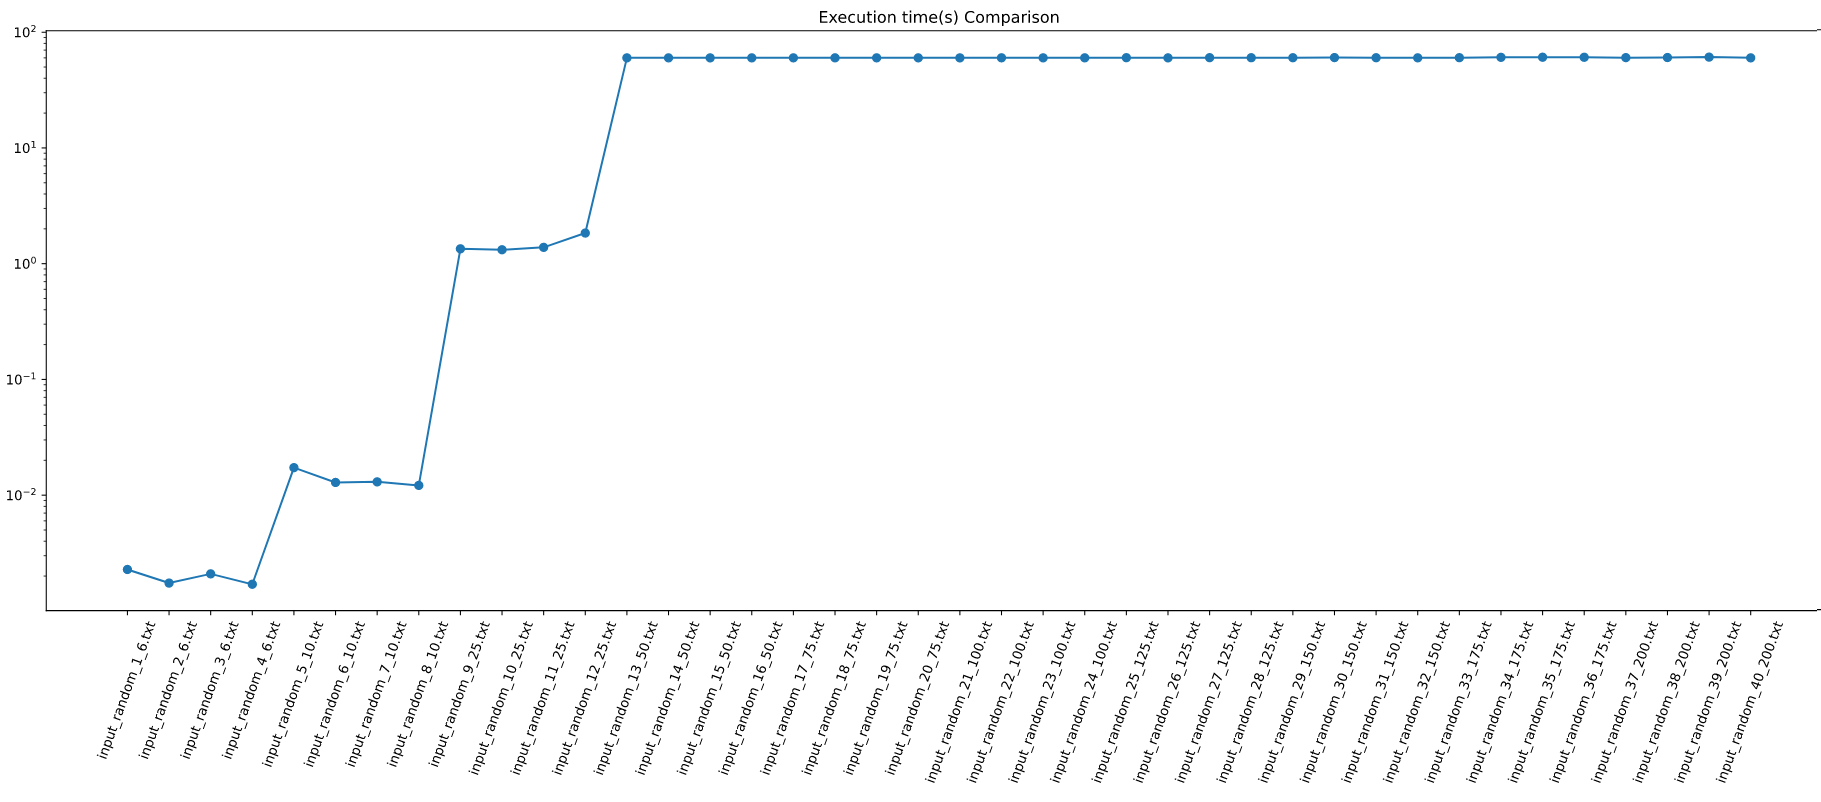
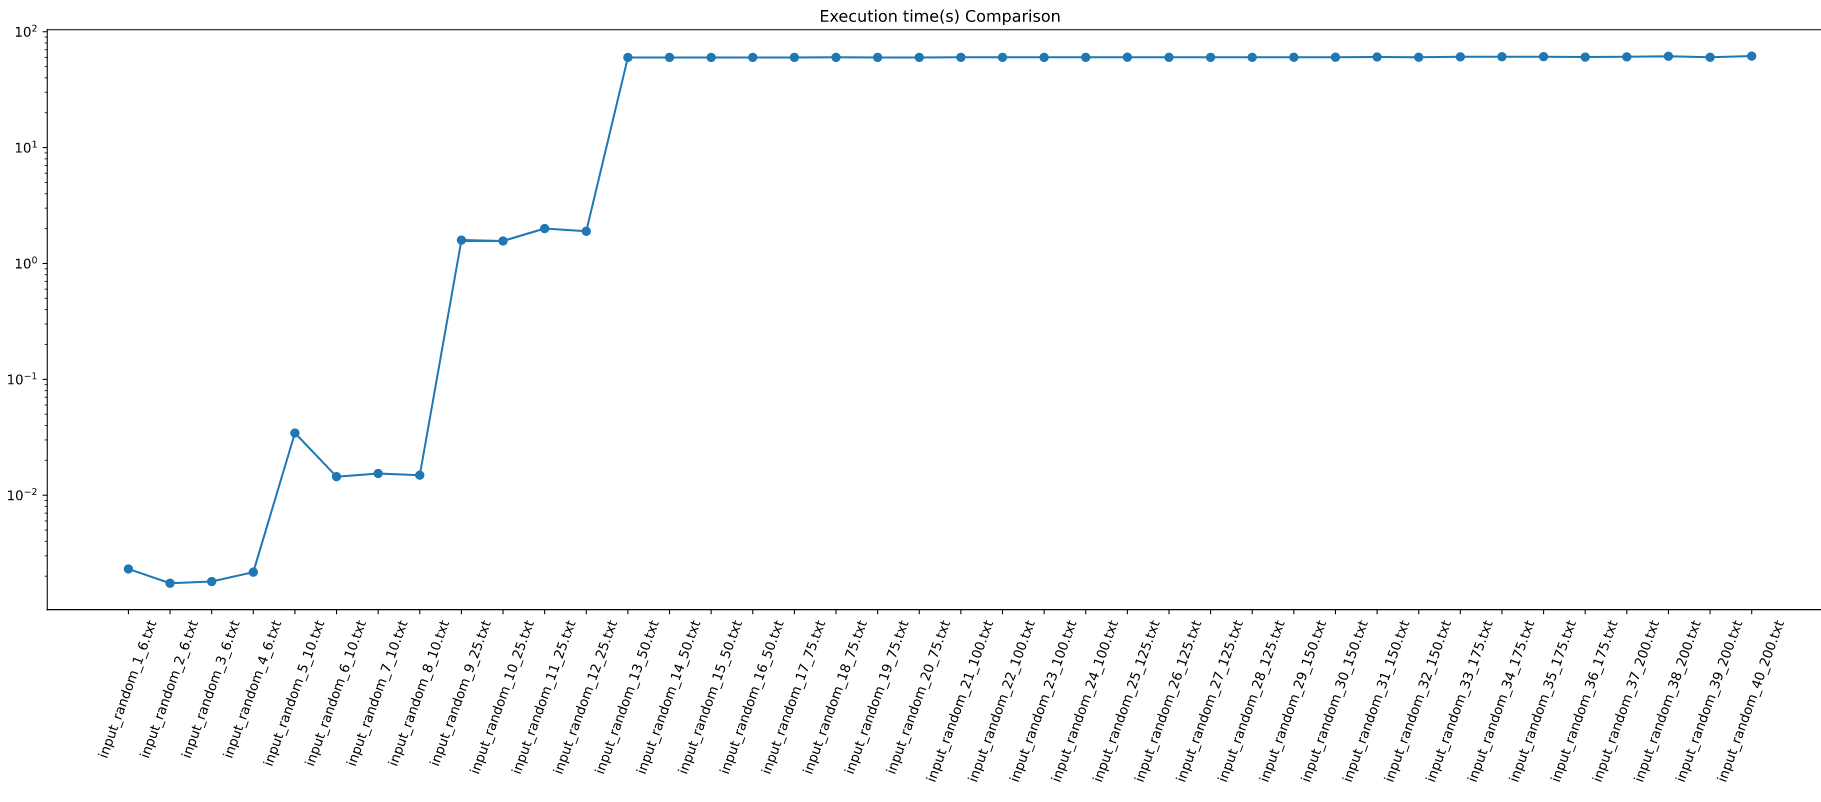
relazione completata

diff --git a/Homework3/Relazione_HW3/Res/Sezioni/karger.tex b/Homework3/Relazione_HW3/Res/Sezioni/karger.tex
@@ -16,24 +16,24 @@ FULL_CONTRACTION(G):
 		pick a random edge e = (u, v)
 		merge u and v in a single node
 		remove edges between u and v
+		edit adjacency lists to point to the new node
 		
-	return |E| // the edges between the two remaining vertices (u* ,v*)
+	return |E| // the total number of edges remaining
 \end{lstlisting}	
 
 L'algoritmo di \textit{Karger} è un algoritmo randomizzato per la computazione del \textit{minimum cut} di un multi-grafo connesso.\\
 Un ``\textit{multi-grafo}'' è un particolare tipo di grafo che ammette ripetizioni di lati al suo interno, ovvero questi possono apparire più di una volta (con \textit{molteplicità} $\geq$ 1).\\
 L'idea su cui si basa l'algoritmo qui implementato, è quella di contrarre i vertici all'interno del multi-grafo fino a quando non ne restano solamente due, i quali rappresentano gli opposti del taglio.\\
-Per ``\textit{contrarre}'' si intende \textit{unire} i due nodi estremi di un lato in maniera da averne solamente uno. 
+Per ``\textit{contrarre}'' si intende \textit{unire} i due nodi estremi di un lato in maniera da averne solamente uno preservando il taglio minimo. 
 Dopo averli uniti vanno aggiustate le vecchie liste di adiacenza, unite in una singola, in maniera che i vecchi puntatori ai nodi tolti siano stati correttamente sostituiti con riferimenti al nuovo nodo e che non ci siano \textit{self-loops}.\\
-Essendo che è un \textit{algoritmo randomizzato}, ovvero utilizza un grado di casualità come parte della sua logica, la procedura di contrazione va eseguito $k$ volte, con $k$ calcolato in maniera da soddisfare la probabilità:
+Essendo un \textit{algoritmo randomizzato}, ovvero utilizza un grado di casualità come parte della sua logica, la procedura di contrazione va eseguita $k$ volte, con $k$ calcolato in maniera da soddisfare la probabilità:
 \begin{center}
-	$Pr("le~k~FULL\_C.~non~accumulano~la~taglia~del~min~cut") \leq (1-\frac{2}{n^2})^k$
-
+	$Pr(``le~k~FULL\_C.~non~accumulano~la~taglia~del~min~cut") \leq (1-\frac{2}{n^2})^k$
 \end{center}
 Voglio ottenere qualcosa del tipo $\frac{1}{n^d}$ e quindi scelgo $k = d\frac{n^2}{2}\ln n$.\\
 La logica che implementa la parte randomica in questo caso è la scelta del lato i cui nodi andranno contratti.\\
-Possiamo quindi dire che l'algoritmo funziona con probabilità bassissima, che può però essere amplificata ripetendo questo processo molte volte, esattamente k.\\
-Essendo però che questo potrebbe portare via tanto tempo da eseguire su tutte le istanze del dataset abbiamo introdotto un tempo massimo di 60 secondi per ciascuna istanza.
+Possiamo quindi dire che l'algoritmo funziona con probabilità bassissima, che può però essere amplificata ripetendo questo processo molte volte, esattamente $k$.\\
+Data l'alta complessità computazionale, abbiamo deciso di introdurre un tempo massimo di 60 secondi in modo da eseguire l'algoritmo su ciascuna istanza del dataset.
 
 \subsection{Strutture dati}
 
@@ -43,8 +43,8 @@ Essendo però che questo potrebbe portare via tanto tempo da eseguire su tutte l
 		\item \texttt{\textbf{n\_edges}}: numero di lati del grafo;
 		\item \texttt{\textbf{nodes}}: dizionario con i nodi del grafo e le rispettive liste di adiacenza;
 		\item \texttt{\textbf{edges}}: lista con i lati del grafo;
-		\item \texttt{\textbf{\_\_init\_\_()}}: metodo di inizializzazione che imposta i precedenti campi a 0 o vuoti;
-		\item \texttt{\textbf{addEdge(v1, v2)}}: metodo che dati due nodi aggiunge il lato che li unisce alla lista \texttt{edges};
+		\item \texttt{\textbf{\_\_init\_\_()}}: costruttore del grafo che imposta i precedenti campi a 0 o vuoti;
+		\item \texttt{\textbf{addEdge(v1, v2)}}: metodo che dati due nodi aggiunge il lato che li unisce alla lista \texttt{edges} aggiornando le liste di adiacenza;
 		\item \texttt{\textbf{buildGraph(data)}} metodo che riceve in input una matrice di adiacenza e, in base a questa, ne costruisce un grafo.
 	\end{itemize}
 	
@@ -64,9 +64,9 @@ Essendo però che questo potrebbe portare via tanto tempo da eseguire su tutte l
 		\item a partire dalla lista di vertici nel file di input, viene costruito il grafo \texttt{graph};
 		\item viene calcolato il valore \texttt{k} tramite la formula \texttt{int((graph.n\_nodes**2 / 2) * \\
 			math.log(graph.n\_nodes))}. Se \texttt{k} supera $10000$ allora il suo valore lo fissiamo a tale soglia;
-		\item per migliorare le performance della soluzione proposta, abbiamo deciso di creare in anticipo le copie dei grafi per ciascuna delle \texttt{k} volte che verrà eseguito \texttt{fullContraction(G)};
+		\item per migliorare le performance della soluzione proposta, abbiamo deciso di creare in anticipo le copie dei grafi per ciascuna delle \texttt{k} volte che verrà eseguito \texttt{fullContraction(G)}. La limitazione del valore di $k$ a 10000 è dovuta all'elevato costo della creazione delle $k$ copie di \texttt{graph};
 		\item viene effettuata la chiamata a \texttt{Karger(G,k)}, nel quale per \texttt{k} volte viene chiamato \texttt{fullContraction(G)}. I risultati di ciascuna chiamata vengono confrontati e viene salvato quello minimo, inoltre vengono registrati i tempi che sono presentati in formato tabellare nella Sez.~\ref{risultati}. Se il tempo di esecuzione supera quello massimo fissato, allora viene tornata la soluzione trovata fino a quel momento;
-		\item per ciascuna chiamata a \texttt{fullContraction(G)}, questo metodo sceglie in maniera randomica un lato presente all'interno del grafo passato in input e unisce i vertici che ne rappresentano gli estremi in un singolo vertice. Per ciascuno degli altri vertici presenti all'interno del grafo si modificano le liste di adiacenza e aggiornando i riferimenti. Vengono inoltre diminuiti i contatori \texttt{n\_nodes} e \texttt{n\_edges} all'interno della struttura \texttt{Graph}. Questo metodo ritorna il numero rimanente di lati all'interno del grafo dopo aver eliminato $|V|-2$ nodi;
+		\item per ciascuna chiamata a \texttt{fullContraction(G)}, questo metodo sceglie in maniera randomica un lato presente all'interno del grafo passato in input e unisce i vertici che ne rappresentano gli estremi in un singolo vertice. Per ciascuno degli altri vertici presenti all'interno del grafo si modificano le liste di adiacenza e aggiornano i riferimenti. Vengono inoltre diminuiti i contatori \texttt{n\_nodes} e \texttt{n\_edges} all'interno della struttura \texttt{Graph}. Questo metodo ritorna il numero rimanente di lati all'interno del grafo dopo aver eliminato $|V|-2$ nodi;
 		\item i risultati vengono messi in coda alla lista e questo procedimento viene ripetuto per i rimanenti file in input non ancora valutati.
 	\end{itemize}
 
@@ -75,13 +75,18 @@ Essendo però che questo potrebbe portare via tanto tempo da eseguire su tutte l
 		\begin{figure}[H]
 			\centering
 			\includegraphics[width=\linewidth]{Img/example_1.png}
-			\caption{Esempio di esecuzione dell'algoritmo di Karger e Full Contraption}
+			\caption{Esempio di esecuzione dell'algoritmo di Karger e Full Contraction}
 		\end{figure}
 	\end{center}
 	\vspace{-1cm}
 		
 \subsection{Complessità}
 
-	La complessità della subroutine \texttt{fullContraction} è $O(n^2)$ e questo porta la complessità di \texttt{Karger}, e quindi di tutto l'algoritmo, ad essere $O(n^4\log n)$ per ciascuna istanza in analisi.
+	La complessità della subroutine \texttt{fullContraction} è $O(n^2)$ e questo porta la complessità di \texttt{Karger}, e quindi di tutto l'algoritmo, ad essere $O(n^4\log n)$ per ciascuna istanza in analisi.\\
+	In particolare:
+	\begin{itemize}
+		\item nella subroutine di \texttt{FullContraction} la complessità è dovuta dal primo ciclo \texttt{for} che ha complessità $O(n)$ e ciascuna contrazione ha complessità $O(n)$. In totale, quindi, \texttt{FullContraction} ha complessità $O(n^2)$;
+		\item la complessità di \texttt{Karger} è dovuta dalla complessità della precedente procedura \texttt{FullContraction}, ripetuta $k$ volte, con una complessità totale di $O(n^4\log n)$.
+	\end{itemize}
 	
 \pagebreak

diff --git a/Homework3/Relazione_HW3/Res/Sezioni/risultati_domande.tex b/Homework3/Relazione_HW3/Res/Sezioni/risultati_domande.tex
@@ -5,42 +5,42 @@
 	\begin{tabular}{|c|c|c|c|c|c|}
 		\hline
 		\parbox{2cm}{\centering Istanza} & {Soluzione} & {Tempo(s)} & \parbox{2.75cm}{\vspace{.1cm}\centering Tempo Full Contraction(s)\vspace{.1cm}} & \parbox{2cm}{\centering Discovery time(s)} & {Errore(\%)}\\\hline
-		input\_1\_6.txt & 2 & 0.00228 & 0.00007 & 0.00044 & 0.00\\\hline
-		input\_2\_6.txt & 1 & 0.00174 & 0.00005 & 0.00006 & 0.00\\\hline
-		input\_3\_6.txt & 3 & 0.00209 & 0.00006 & 0.00012 & 0.00\\\hline
-		input\_4\_6.txt & 4 & 0.00170 & 0.00005 & 0.00009 & 0.00\\\hline
-		input\_5\_10.txt & 4 & 0.01729 & 0.00015 & 0.00078 & 0.00\\\hline
-		input\_6\_10.txt & 3 & 0.01288 & 0.00011 & 0.00015 & 0.00\\\hline
-		input\_7\_10.txt & 2 & 0.01303 & 0.00011 & 0.00012 & 0.00\\\hline
-		input\_8\_10.txt & 1 & 0.01215 & 0.00011 & 0.00013 & 0.00\\\hline
-		input\_9\_25.txt & 7 & 1.34433 & 0.00134 & 0.01209 & 0.00\\\hline
-		input\_10\_25.txt & 6 & 1.31912 & 0.00131 & 0.02524 & 0.00\\\hline
-		input\_11\_25.txt & 8 & 1.38386 & 0.00138 & 0.00393 & 0.00\\\hline
-		input\_12\_25.txt & 9 & 1.83993 & 0.00183 & 0.01214 & 0.00\\\hline
-		input\_13\_50.txt & 15 & 60.01566 & 0.01666 & 0.31949 & 0.00\\\hline
-		input\_14\_50.txt & 16 & 60.00023 & 0.01735 & 0.01634 & 0.00\\\hline
-		input\_15\_50.txt & 14 & 60.00337 & 0.01405 & 0.01708 & 0.00\\\hline
-		input\_16\_50.txt & 10 & 60.00059 & 0.01717 & 0.01396 & 0.00\\\hline
-		input\_17\_75.txt & 19 & 60.04531 & 0.05812 & 0.28464 & 0.00\\\hline
-		input\_18\_75.txt & 15 & 60.05066 & 0.05987 & 0.22496 & 0.00\\\hline
-		input\_19\_75.txt & 18 & 60.03110 & 0.05914 & 0.16354 & 0.00\\\hline
-		input\_20\_75.txt & 16 & 60.02701 & 0.05139 & 0.09496 & 0.00\\\hline
-		input\_21\_100.txt & 22 & 60.00147 & 0.12987 & 2.53955 & 0.00\\\hline
-		input\_22\_100.txt & 23 & 60.08396 & 0.11599 & 3.10299 & 0.00\\\hline
-		input\_23\_100.txt & 19 & 60.02514 & 0.12826 & 0.12116 & 0.00\\\hline
-		input\_24\_100.txt & 24 & 60.06026 & 0.12591 & 1.32756 & 0.00\\\hline
-		input\_25\_125.txt & 34 & 60.20452 & 0.29368 & 1.40238 & 0.00\\\hline
-		input\_26\_125.txt & 29 & 60.02135 & 0.26558 & 0.75063 & 0.00\\\hline
-		input\_27\_125.txt & 36 & 60.24215 & 0.30272 & 2.94239 & 0.00\\\hline
-		input\_28\_125.txt & 31 & 60.17579 & 0.26277 & 13.44911 & 0.00\\\hline
-		input\_29\_150.txt & 37 & 60.16308 & 0.56227 & 1.76109 & 0.00\\\hline
-		input\_30\_150.txt & 35 & 60.34957 & 0.51581 & 15.62627 & 0.00\\\hline
-		input\_31\_150.txt & 41 & 60.16005 & 0.51419 & 3.07488 & 0.00\\\hline
-		input\_32\_150.txt & 39 & 60.05670 & 0.53622 & 12.24101 & 0.00\\\hline
-		input\_33\_175.txt & 42 & 60.22020 & 0.92646 & 11.07539 & 0.00\\\hline
-		input\_34\_175.txt & 45 & 60.65118 & 0.91895 & 10.16296 & 0.00\\\hline
-		input\_35\_175.txt & 53 & 60.76624 & 1.06607 & 28.81443 & 0.00\\\hline
-		input\_36\_175.txt & 43 & 60.72785 & 0.84344 & 33.94806 & 0.00\\\hline
+		input\_1\_6.txt & 2 & 0.00231 & 0.00007 & 0.00024 & 0.00\\\hline
+		input\_2\_6.txt & 1 & 0.00174 & 0.00005 & 0.00065 & 0.00\\\hline
+		input\_3\_6.txt & 3 & 0.00180 & 0.00006 & 0.00018 & 0.00\\\hline
+		input\_4\_6.txt & 4 & 0.00217 & 0.00007 & 0.00014 & 0.00\\\hline
+		input\_5\_10.txt & 4 & 0.03442 & 0.00030 & 0.00072 & 0.00\\\hline
+		input\_6\_10.txt & 3 & 0.01447 & 0.00013 & 0.00095 & 0.00\\\hline
+		input\_7\_10.txt & 2 & 0.01540 & 0.00013 & 0.00062 & 0.00\\\hline
+		input\_8\_10.txt & 1 & 0.01490 & 0.00013 & 0.00013 & 0.00\\\hline
+		input\_9\_25.txt & 7 & 1.59042 & 0.00158 & 0.00887 & 0.00\\\hline
+		input\_10\_25.txt & 6 & 1.56295 & 0.00155 & 0.04115 & 0.00\\\hline
+		input\_11\_25.txt & 8 & 2.00112 & 0.00199 & 0.00893 & 0.00\\\hline
+		input\_12\_25.txt & 9 & 1.89574 & 0.00188 & 0.00201 & 0.00\\\hline
+		input\_13\_50.txt & 15 & 60.00233 & 0.01549 & 0.10327 & 0.00\\\hline
+		input\_14\_50.txt & 16 & 60.01616 & 0.01579 & 0.13614 & 0.00\\\hline
+		input\_15\_50.txt & 14 & 60.00795 & 0.01347 & 0.04197 & 0.00\\\hline
+		input\_16\_50.txt & 10 & 60.01186 & 0.01411 & 0.02720 & 0.00\\\hline
+		input\_17\_75.txt & 19 & 60.01799 & 0.04756 & 0.12836 & 0.00\\\hline
+		input\_18\_75.txt & 15 & 60.04845 & 0.05328 & 0.15721 & 0.00\\\hline
+		input\_19\_75.txt & 18 & 60.03456 & 0.05216 & 0.40870 & 0.00\\\hline
+		input\_20\_75.txt & 16 & 60.01651 & 0.05090 & 1.61908 & 0.00\\\hline
+		input\_21\_100.txt & 22 & 60.11853 & 0.12656 & 0.74940 & 0.00\\\hline
+		input\_22\_100.txt & 23 & 60.05595 & 0.12670 & 0.87588 & 0.00\\\hline
+		input\_23\_100.txt & 19 & 60.05745 & 0.13680 & 0.56977 & 0.00\\\hline
+		input\_24\_100.txt & 24 & 60.05831 & 0.13228 & 0.61221 & 0.00\\\hline
+		input\_25\_125.txt & 34 & 60.23190 & 0.30267 & 2.83151 & 0.00\\\hline
+		input\_26\_125.txt & 29 & 60.13841 & 0.27212 & 4.71717 & 0.00\\\hline
+		input\_27\_125.txt & 36 & 60.06676 & 0.30336 & 0.91342 & 0.00\\\hline
+		input\_28\_125.txt & 31 & 60.10401 & 0.25576 & 7.58857 & 0.00\\\hline
+		input\_29\_150.txt & 37 & 60.17212 & 0.60780 & 3.03944 & 0.00\\\hline
+		input\_30\_150.txt & 35 & 60.26632 & 0.52405 & 0.59696 & 0.00\\\hline
+		input\_31\_150.txt & 41 & 60.51738 & 0.54033 & 2.94316 & 0.00\\\hline
+		input\_32\_150.txt & 39 & 60.21118 & 0.56803 & 26.88796 & 0.00\\\hline
+		input\_33\_175.txt & 42 & 60.69174 & 0.90584 & 2.62535 & 0.00\\\hline
+		input\_34\_175.txt & 45 & 60.81718 & 0.90772 & 45.62800 & 0.00\\\hline
+		input\_35\_175.txt & 53 & 60.90280 & 1.14911 & 10.99047 & 0.00\\\hline
+		input\_36\_175.txt & 43 & 60.37577 & 0.86251 & 8.02117 & 0.00\\\hline
 	\end{tabular}
 \end{center}
 
@@ -50,10 +50,10 @@
 	\begin{tabular}{|c|c|c|c|c|c|}
 		\hline
 		\parbox{2cm}{\centering Istanza} & {Soluzione} & {Tempo(s)} & \parbox{2.75cm}{\vspace{.1cm}\centering Tempo Full Contraction(s)\vspace{.1cm}} & \parbox{2cm}{\centering Discovery time(s)} & {Errore(\%)}\\\hline
-		input\_37\_200.txt & 54 & 60.28828 & 1.58653 & 28.65111 & 0.00\\\hline
-		input\_38\_200.txt & 52 & 60.42248 & 1.40517 & 2.72059 & 0.00\\\hline
-		input\_39\_200.txt & 51 & 60.90992 & 1.52275 & 50.57414 & 0.00\\\hline
-		input\_40\_200.txt & 61 & 60.02180 & 1.66727 & 36.01279 & 0.00\\\hline
+		input\_37\_200.txt & 54 & 60.65795 & 1.68494 & 28.33442 & 0.00\\\hline
+		input\_38\_200.txt & 52 & 61.38803 & 1.42763 & 18.03374 & 0.00\\\hline
+		input\_39\_200.txt & 51 & 60.17441 & 1.50436 & 7.57775 & 0.00\\\hline
+		input\_40\_200.txt & 61 & 61.56819 & 1.81083 & 12.76823 & 0.00\\\hline
 	\end{tabular}
 \end{center}
 
@@ -66,8 +66,8 @@
 	\end{figure}
 \end{center}
 
-\subsection{Grafico di confronto dei tempi di Full Contraption}
-\begin{center}
+\subsection{Grafico di confronto dei tempi di Full Contraction}
+\begin{center}\label{fc_time}
 	\begin{figure}[H]
 		\centering
 		\hspace{-1cm}\includegraphics[width=\linewidth]{Img/fc_time_graph.jpg}
@@ -81,6 +81,15 @@
 		\centering
 		\hspace{-1cm}\includegraphics[width=\linewidth]{Img/disc_time_graph.jpg}
 		\caption{Confronto dei Discovery Time}
+	\end{figure}
+\end{center}
+
+\subsection{Grafico di confronto dei Discovery Time rispetto ai tempi totali}\label{confronto}
+\begin{center}
+	\begin{figure}[H]
+		\centering
+		\hspace{-1cm}\includegraphics[width=\linewidth]{Img/confronto_time_graph.jpg}
+		\caption{Confronto dei Discovery Time rispetto ai tempi totali di esecuzione}
 	\end{figure}
 \end{center}
 

diff --git a/Homework3/Relazione_HW3/Res/Sezioni/conclusione.tex b/Homework3/Relazione_HW3/Res/Sezioni/conclusione.tex
@@ -1,5 +1,25 @@
 \section{Conclusione}
 
+%Domanda 1
+%
+%Misurate i tempi di calcolo della procedura Full_Contraction sui grafi del dataset. Mostrate i risultati con un grafico che mostri la variazione dei tempi di calcolo al variare del numero di vertici nel grafo. Confrontate i tempi misurati con la complessità asintotica di Full_contraction.
+%Domanda 2
+%
+%Misurate i tempi di calcolo dell'algoritmo di Karger sui grafi del dataset, usando un numero di ripetizioni che garantisca una probabilità minore o uguale a 1n di sbagliare. Mostrate i risultati con un grafico che mostri la variazione dei tempi di calcolo al variare del numero di vertici nel grafo. Confrontate i tempi misurati con la complessità asintotica dell'algoritmo. Nelle istanze più grandi, il tempo di calcolo necessario a completare tutte le iterazioni potrebbe risultare eccessivo. In questo caso utilizzate un timeout oppure abbassate il numero di ripetizioni per ottenere tempi di esecuzione ragionevoli.
+%
+%Domanda 3
+%
+%Misurate il l discovery time dell'algoritmo di Karger sui grafi del dataset. Il discovery time è il momento (in secondi) in cui l'algoritmo trova per la prima volta il taglio di costo mimimo.  Confrontate il discovery time con il tempo di esecuzione complessivo per ognuno dei grafi nel dataset.
+%
+%Domanda 4
+%
+%Per ognuno dei grafi del dataset, riportate il risultato risultato ottenuto dalla vostra implementazione, la soluzione attesa e l'errore relativo calcolato come SoluzioneTrovata−SoluzioneAttesa/SoluzioneAttesa.
 
+La complessità asintotica di \texttt{FullContraction} è $O(n^2)$ e quindi all'aumentare della dimensione dell'input il tempo di una singola \texttt{FullContraction} aumenta e, proporzionalmente, aumenta il tempo totale di esecuzione, cioè la ripetizione di $k$ volte della procedura.
+Ottenuti questi risultati si può affermare che rispettano la complessità attesa della procedura \texttt{FullContraction} e, di conseguenza, quella di \texttt{Karger}.\\
+Il grafico in Fig.~\ref{fc_time} indica i tempi medi dell'esecuzione della procedura \texttt{FullContraction} per ciascuna istanza in input.\\
+Il grafico in Fig.~\ref{confronto} mostra il confronto tra il discovery time con il tempo di esecuzione complessivo per ognuno dei grafi nel dataset. 
+Si può notare che all'aumentare della dimensione delle istanze di input e di conseguenza all'aumentare del tempo massimo di esecuzione dell'algoritmo il discovery time aumenta, però questo dato presenta un'elevata variabilità dovuta alla scelta casuale del lato effettuata dall'algoritmo.\\
+Tutti i risultati ottenuti dall'algoritmo hanno una percentuale di errore di $0\%$ in quanto la procedura riesce a trovare la soluzione esatta entro i tempi prefissati.
 
 \pagebreak

diff --git a/Homework3/Relazione_HW3/Res/Sezioni/Introduzione.tex b/Homework3/Relazione_HW3/Res/Sezioni/Introduzione.tex
@@ -17,7 +17,7 @@ L'homework ha come obiettivo quello di valutare le prestazioni dell'\textit{Algo
 %\end{enumerate}
 Come per i precedenti homework, il linguaggio in cui sono stati implementati questi algoritmi è \texttt{Python}.
 Abbiamo deciso di utilizzare questo al contrario di altri linguaggi come \texttt{C++} o \texttt{Java} in quanto questa scelta ci ha permesso di utilizzare i \textit{Jupyter Notebook} e di programmare utilizzando l'IDE \textit{PyCharm} oppure con \textit{Google Colab}.\\
-Nella Sez.~\ref{risultati} sono presenti i risultati, in forma tabellare, che confrontano le performance richieste dalla consegna, calcolati sul dataset dato, contenente 40 grafi di esempio, di dimensione compresa tra $6$ e $200$ vertici e descritti in file \texttt{.txt}.
+Nella Sez.~\ref{risultati} sono presenti i risultati, in forma tabellare, che confrontano le performance richieste dalla consegna, calcolate sul dataset dato, contenente 40 grafi di esempio, di dimensione compresa tra $6$ e $200$ vertici e descritti in file \texttt{.txt}.
 Sono inoltre illustrati i grafici delle performance.\\
 Il lavoro è stato suddiviso equamente tra i membri del gruppo collaborando all'implementazione dell'algoritmo ed effettuando una verifica finale del codice e dei risultati tramite \textit{peer review} cercando di seguire una linea di sviluppo comune.
 \pagebreak
